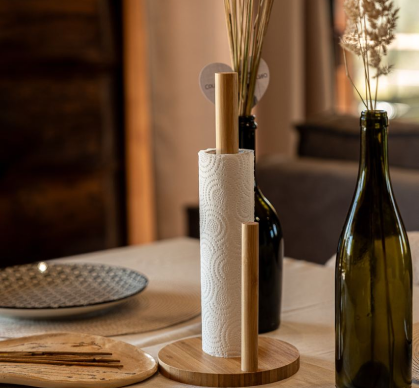
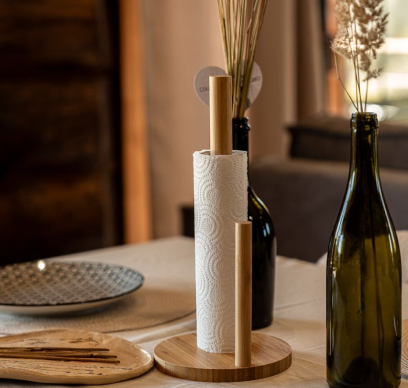
[+] add footer

diff --git a/src/shared/icons/Inst-icon.tsx b/src/shared/icons/Inst-icon.tsx
@@ -1,0 +1,33 @@
+export function InstIcon() {
+	return (
+		<svg
+			width="44"
+			height="43"
+			viewBox="0 0 44 43"
+			fill="none"
+			xmlns="http://www.w3.org/2000/svg"
+		>
+			<rect y="3" width="40" height="40" rx="20" fill="black" />
+			<path
+				d="M20.0032 13.163C23.2096 13.163 23.586 13.1773 24.8534 13.2345C26.0254 13.2869 26.6591 13.4823 27.0831 13.649C27.6453 13.8682 28.0455 14.1255 28.4648 14.5447C28.8841 14.964 29.1461 15.3642 29.3605 15.9264C29.5225 16.3504 29.7226 16.9841 29.775 18.1562C29.8322 19.4235 29.8465 19.7999 29.8465 23.0064C29.8465 26.2128 29.8322 26.5892 29.775 27.8565C29.7226 29.0286 29.5273 29.6623 29.3605 30.0863C29.1414 30.6485 28.8841 31.0487 28.4648 31.468C28.0455 31.8872 27.6453 32.1493 27.0831 32.3637C26.6591 32.5257 26.0254 32.7258 24.8534 32.7782C23.586 32.8354 23.2096 32.8497 20.0032 32.8497C16.7967 32.8497 16.4203 32.8354 15.153 32.7782C13.9809 32.7258 13.3473 32.5304 12.9232 32.3637C12.361 32.1445 11.9608 31.8872 11.5416 31.468C11.1223 31.0487 10.8602 30.6485 10.6458 30.0863C10.4839 29.6623 10.2837 29.0286 10.2313 27.8565C10.1742 26.5892 10.1599 26.2128 10.1599 23.0064C10.1599 19.7999 10.1742 19.4235 10.2313 18.1562C10.2837 16.9841 10.4791 16.3504 10.6458 15.9264C10.865 15.3642 11.1223 14.964 11.5416 14.5447C11.9608 14.1255 12.361 13.8634 12.9232 13.649C13.3473 13.487 13.9809 13.2869 15.153 13.2345C16.4203 13.1726 16.8015 13.163 20.0032 13.163ZM20.0032 11C16.7443 11 16.3346 11.0143 15.0529 11.0715C13.7761 11.1286 12.9042 11.3335 12.1419 11.6289C11.351 11.9338 10.684 12.3483 10.0169 13.0154C9.34992 13.6824 8.94018 14.3542 8.63049 15.1403C8.3351 15.9026 8.13023 16.7745 8.07305 18.0561C8.01588 19.333 8.00159 19.7427 8.00159 23.0016C8.00159 26.2605 8.01588 26.6702 8.07305 27.9518C8.13023 29.2287 8.3351 30.1006 8.63049 30.8677C8.93541 31.6585 9.34992 32.3256 10.0169 32.9926C10.684 33.6596 11.3557 34.0693 12.1419 34.379C12.9042 34.6744 13.7761 34.8793 15.0577 34.9365C16.3393 34.9936 16.7443 35.0079 20.0079 35.0079C23.2716 35.0079 23.6766 34.9936 24.9582 34.9365C26.2351 34.8793 27.1069 34.6744 27.874 34.379C28.6649 34.0741 29.3319 33.6596 29.999 32.9926C30.666 32.3256 31.0757 31.6538 31.3854 30.8677C31.6808 30.1053 31.8857 29.2335 31.9428 27.9518C32 26.6702 32.0143 26.2652 32.0143 23.0016C32.0143 19.738 32 19.333 31.9428 18.0513C31.8857 16.7745 31.6808 15.9026 31.3854 15.1355C31.0805 14.3446 30.666 13.6776 29.999 13.0106C29.3319 12.3436 28.6602 11.9338 27.874 11.6241C27.1117 11.3287 26.2398 11.1239 24.9582 11.0667C23.6718 11.0143 23.2621 11 20.0032 11Z"
+				fill="white"
+			/>
+			<path
+				d="M20.0032 13.163C23.2096 13.163 23.586 13.1773 24.8534 13.2345C26.0254 13.2869 26.6591 13.4823 27.0831 13.649C27.6453 13.8682 28.0455 14.1255 28.4648 14.5447C28.8841 14.964 29.1461 15.3642 29.3605 15.9264C29.5225 16.3504 29.7226 16.9841 29.775 18.1562C29.8322 19.4235 29.8465 19.7999 29.8465 23.0064C29.8465 26.2128 29.8322 26.5892 29.775 27.8565C29.7226 29.0286 29.5273 29.6623 29.3605 30.0863C29.1414 30.6485 28.8841 31.0487 28.4648 31.468C28.0455 31.8872 27.6453 32.1493 27.0831 32.3637C26.6591 32.5257 26.0254 32.7258 24.8534 32.7782C23.586 32.8354 23.2096 32.8497 20.0032 32.8497C16.7967 32.8497 16.4203 32.8354 15.153 32.7782C13.9809 32.7258 13.3473 32.5304 12.9232 32.3637C12.361 32.1445 11.9608 31.8872 11.5416 31.468C11.1223 31.0487 10.8602 30.6485 10.6458 30.0863C10.4839 29.6623 10.2837 29.0286 10.2313 27.8565C10.1742 26.5892 10.1599 26.2128 10.1599 23.0064C10.1599 19.7999 10.1742 19.4235 10.2313 18.1562C10.2837 16.9841 10.4791 16.3504 10.6458 15.9264C10.865 15.3642 11.1223 14.964 11.5416 14.5447C11.9608 14.1255 12.361 13.8634 12.9232 13.649C13.3473 13.487 13.9809 13.2869 15.153 13.2345C16.4203 13.1726 16.8015 13.163 20.0032 13.163Z"
+				fill="white"
+			/>
+			<path
+				d="M20.0032 16.8408C16.6014 16.8408 13.838 19.5994 13.838 23.006C13.838 26.4125 16.5966 29.1711 20.0032 29.1711C23.4097 29.1711 26.1683 26.4125 26.1683 23.006C26.1683 19.5994 23.4097 16.8408 20.0032 16.8408ZM20.0032 27.0033C17.7925 27.0033 16.0011 25.2119 16.0011 23.0012C16.0011 20.7905 17.7925 18.9991 20.0032 18.9991C22.2139 18.9991 24.0053 20.7905 24.0053 23.0012C24.0053 25.2119 22.2139 27.0033 20.0032 27.0033Z"
+				fill="black"
+			/>
+			<path
+				d="M26.4113 18.032C27.206 18.032 27.8502 17.3878 27.8502 16.5932C27.8502 15.7985 27.206 15.1543 26.4113 15.1543C25.6167 15.1543 24.9725 15.7985 24.9725 16.5932C24.9725 17.3878 25.6167 18.032 26.4113 18.032Z"
+				fill="black"
+			/>
+			<path
+				d="M42.2031 8.10156L40.3047 6.90625L40.3828 9.14844H39.3594L39.4453 6.90625L37.5234 8.10938L37.0391 7.17188L39.0078 6.17188L37.0469 5.16406L37.5312 4.25781L39.4453 5.4375L39.3672 3.21094H40.3828L40.3047 5.44531L42.2109 4.25781L42.7109 5.16406L40.7266 6.17969L42.7109 7.17969L42.2031 8.10156Z"
+				fill="black"
+			/>
+		</svg>
+	)
+}

diff --git a/src/components/footer/Footer.tsx b/src/components/footer/Footer.tsx
@@ -1,0 +1,48 @@
+import dynamic from 'next/dynamic'
+import { SocialLinks } from './ui/SocialLinks'
+
+const YandexCart = dynamic(() => import('./ui/YandexCart'))
+export function Footer() {
+	return (
+		<footer className="mb-[100px]">
+			<h5 className="text-[32px] leading-[40px] 2xl:text-[48px] lg:text-[36px] lg:leading-[48px] flex w-full justify-center 2xl:leading-[56px] mb-[150px] lg:mb-[180px] 2xl:mb-[200px]">
+				Это тихое место идеально <br /> подходит для тех, кто ищет
+				<br /> гармонию с природой и<br /> уединение от городской
+				суеты
+			</h5>
+			<div className="flex flex-col lg:flex-row gap-[30px] 2xl:gap-[70px]">
+				<div className="lg:w-[60%] xl:w-[50%]">
+					<div className="flex flex-col mb-[30px]">
+						<p className="font-bold text-[32px] mb-[24px] lg:mb-[54px] 2xl:mb-[74px] leading-[40px] 2xl:text-[48px] lg:text-[36px] lg:leading-[48px]">
+							Если все еще <br /> остались вопросы
+						</p>
+						<p className="font-semibold text-[20px] leading-[28px]">
+							Московская область, городской <br /> округ
+							Истра, деревня Лукино, 24а <br />
+							<span className="text-GRAY_400 mt-[6px] text-[16px]">
+								Адрес
+							</span>
+						</p>
+					</div>
+					<div className="flex flex-col gap-[24px] mb-[30px]">
+						<p className="font-semibold text-[20px] leading-[28px]">
+							<a href="tel:+7 (977) 777-73-32">
+								+7 (977) 777-73-32
+							</a>
+							<br />
+							<a href="mailto:vudxauc@gmail.com">
+								vudxauc@gmail.com
+							</a>
+							<br />
+							<span className="text-GRAY_400 mt-[6px] text-[16px]">
+								Контакты
+							</span>
+						</p>
+					</div>
+					<SocialLinks />
+				</div>
+				<YandexCart />
+			</div>
+		</footer>
+	)
+}

diff --git a/src/shared/icons/Telegram-icon.tsx b/src/shared/icons/Telegram-icon.tsx
@@ -1,0 +1,19 @@
+export function TelegramIcon() {
+	return (
+		<svg
+			width="40"
+			height="40"
+			viewBox="0 0 40 40"
+			fill="none"
+			xmlns="http://www.w3.org/2000/svg"
+		>
+			<rect width="40" height="40" rx="20" fill="black" />
+			<path
+				fillRule="evenodd"
+				clipRule="evenodd"
+				d="M9.05344 19.7889C14.8838 17.2487 18.7717 15.574 20.717 14.7649C26.2712 12.4547 27.4253 12.0534 28.1776 12.0402C28.343 12.0373 28.7129 12.0783 28.9526 12.2727C29.1549 12.4369 29.2106 12.6587 29.2372 12.8143C29.2639 12.97 29.297 13.3246 29.2707 13.6017C28.9697 16.7641 27.6673 24.4386 27.0047 27.9806C26.7244 29.4794 26.1724 29.9819 25.6379 30.0311C24.4765 30.138 23.5946 29.2635 22.4696 28.5261C20.7094 27.3723 19.7149 26.654 18.0063 25.528C16.0317 24.2268 17.3118 23.5116 18.4371 22.3428C18.7316 22.0369 23.8489 17.3823 23.948 16.96C23.9603 16.9072 23.9718 16.7104 23.8549 16.6065C23.738 16.5025 23.5654 16.5381 23.4408 16.5663C23.2643 16.6064 20.4522 18.465 15.0047 22.1423C14.2065 22.6904 13.4835 22.9574 12.8358 22.9434C12.1217 22.928 10.748 22.5397 9.72685 22.2077C8.47435 21.8006 7.47888 21.5853 7.56556 20.8939C7.61071 20.5337 8.10667 20.1654 9.05344 19.7889Z"
+				fill="white"
+			/>
+		</svg>
+	)
+}

diff --git a/src/components/home/YandexInfo.tsx b/src/components/home/YandexInfo.tsx
@@ -4,7 +4,7 @@ import { ArrowIcon } from '@/shared/icons/Arrow-icon'
 
 export function YandexInfo() {
 	const moveToTop = () => {
-		const section = document.querySelector(`#top`)
+		const section = document.querySelector(`#yandex-map`)
 		if (section)
 			section.scrollIntoView({
 				behavior: 'smooth',
@@ -12,12 +12,13 @@ export function YandexInfo() {
 			})
 	}
 	return (
-		<div className="flex flex-col mb-[37px] lg:mb-[43px] 2xl:mb-[50px] items-start ml-[10%] sm:ml-[18%] gap-[30px] lg:gap-[23px] 2xl:gap-[15px]">
-			<h4 className="text-[32px] lg:text-[40px] leading-[40px] lg:leading-[56px] 2xl:text-[48px]">
+		<div className="flex flex-col mb-[37px] lg:mb-[43px] 2xl:mb-[50px] items-start ml-[10%] sm:ml-[18%] lg:ml-[21%] gap-[30px] lg:gap-[23px] 2xl:gap-[15px]">
+			<h4 className="text-[32px] lg:text-[40px] leading-[40px] 2xl:leading-[56px] 2xl:text-[48px]">
 				Наши гости деляться
-				<br /> своими эмоциями
 				<br />
-				 на Яндекс Картах.
+				своими эмоциями
+				<br />
+				на Яндекс Картах.
 				<br />
 				Поделитесь и вы
 			</h4>

diff --git a/src/components/footer/ui/SocialLinks.tsx b/src/components/footer/ui/SocialLinks.tsx
@@ -1,0 +1,24 @@
+import Link from 'next/link'
+import { InstIcon } from '@/shared/icons/Inst-icon'
+import { TelegramIcon } from '@/shared/icons/Telegram-icon'
+
+export function SocialLinks() {
+	return (
+		<>
+			<div className="flex gap-[6px] items-center mb-[30px]">
+				<Link
+					target="_blank"
+					href="https://www.instagram.com/vudxauc?igsh=OW5sN2I2eDBpeml2"
+				>
+					<InstIcon />
+				</Link>
+				<Link target="_blank" href="https://t.me/vudxauc">
+					<TelegramIcon />
+				</Link>
+			</div>
+			<p className="text-GRAY_400">
+				*Meta – запрещенная в РФ организация
+			</p>
+		</>
+	)
+}

diff --git a/src/components/title-page-info/TitlePageInfo.tsx b/src/components/title-page-info/TitlePageInfo.tsx
@@ -11,11 +11,8 @@ export function TitlePageInfo({
 	children,
 }: ITitlePageInfo) {
 	return (
-		<>
-			<div
-				id="top"
-				className="flex flex-col gap-[25px] sm:gap-[30px] lg:gap-[40px] 2xl:gap-[50px] mb-[71px] sm:mb-[61px] lg:mb-[50px] sm:items-center"
-			>
+		<section>
+			<div className="flex flex-col gap-[25px] sm:gap-[30px] lg:gap-[40px] 2xl:gap-[50px] mb-[71px] sm:mb-[61px] lg:mb-[50px] sm:items-center">
 				<h1 className="text-[64px] sm:text-[82px] lg:text-[88px] 2xl:text-[96px]">
 					{title}
 				</h1>
@@ -24,6 +21,6 @@ export function TitlePageInfo({
 				</p>
 			</div>
 			{children}
-		</>
+		</section>
 	)
 }

diff --git a/src/app/layout.tsx b/src/app/layout.tsx
@@ -1,4 +1,5 @@
 import type { Metadata } from 'next'
+import { Footer } from '@/components/footer'
 import { Header } from '@/components/header'
 import '../shared/styles/global.css'
 
@@ -18,6 +19,8 @@ export default function RootLayout({
 				<Header />
 				<div className="px-[15px] lg:px-[25px] 2xl:px-[50px]">
 					{children}
+
+					<Footer />
 				</div>
 			</body>
 		</html>

diff --git a/src/components/footer/ui/YandexCart.tsx b/src/components/footer/ui/YandexCart.tsx
@@ -1,0 +1,10 @@
+'use client'
+export default function YandexCart() {
+	return (
+		<iframe
+			id="yandex-map"
+			src="https://yandex.ru/map-widget/v1/?um=constructor%3Aaebb16f42ad17f8bd44120ec03cf05bade0e7c3a304702f83baf104763332519&amp;source=constructor"
+			className="w-full h-[326px]"
+		></iframe>
+	)
+}

diff --git a/src/components/footer/index.ts b/src/components/footer/index.ts
@@ -1,0 +1,1 @@
+export { Footer } from './Footer'
